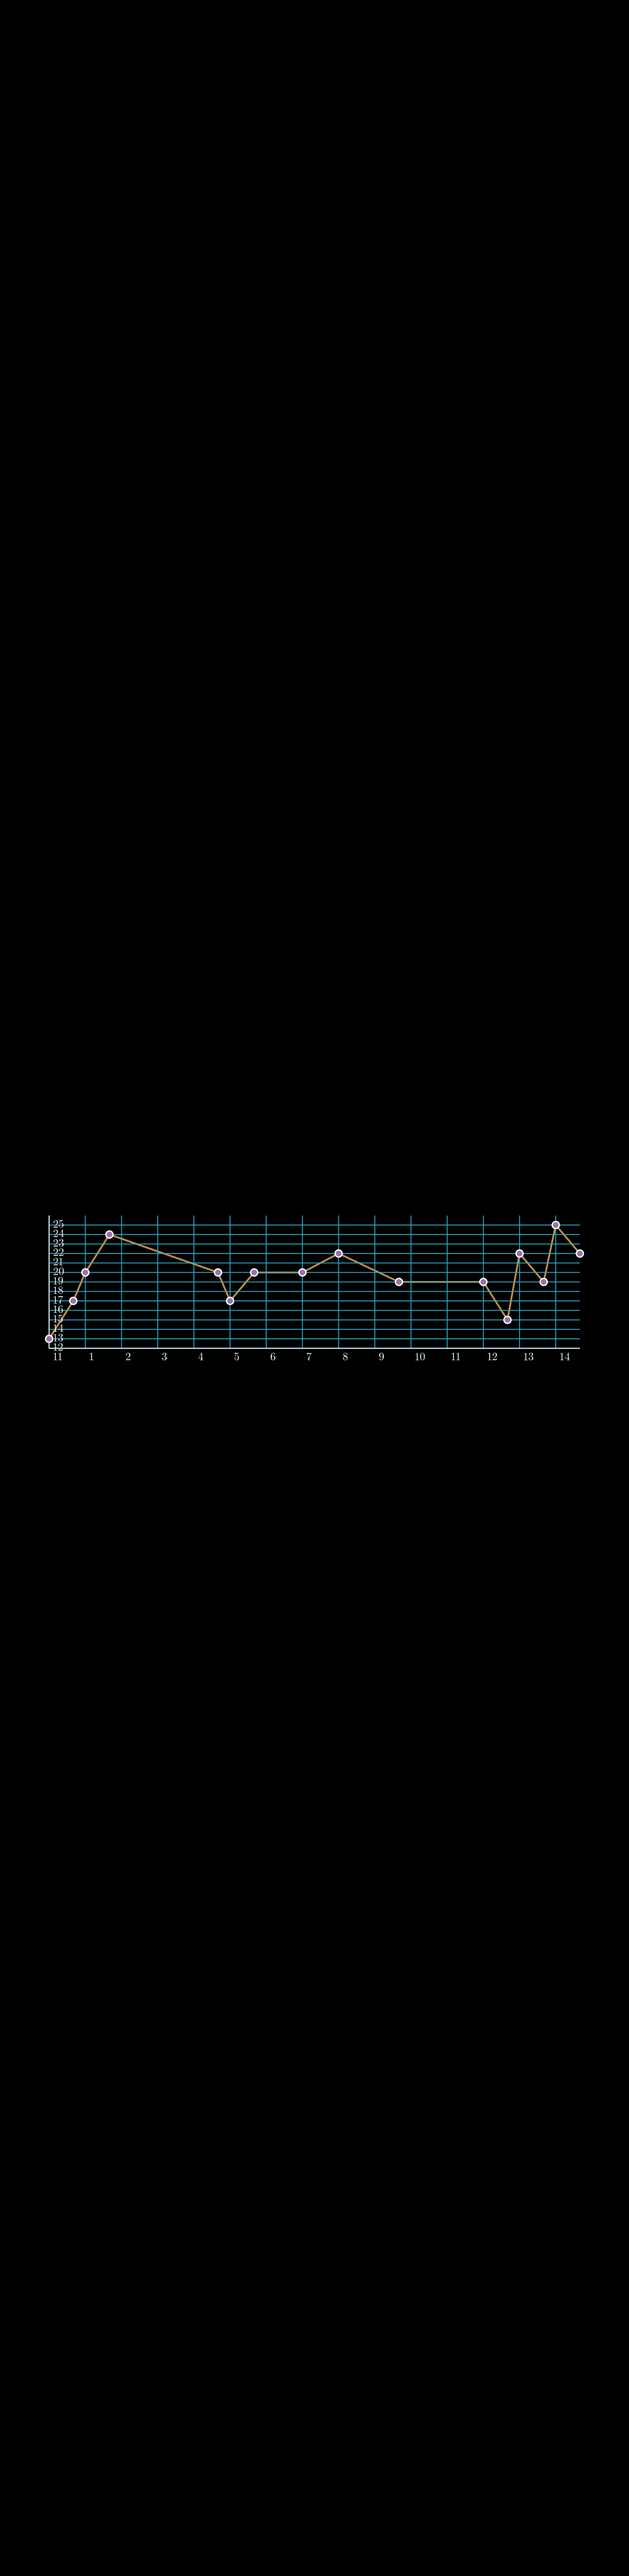
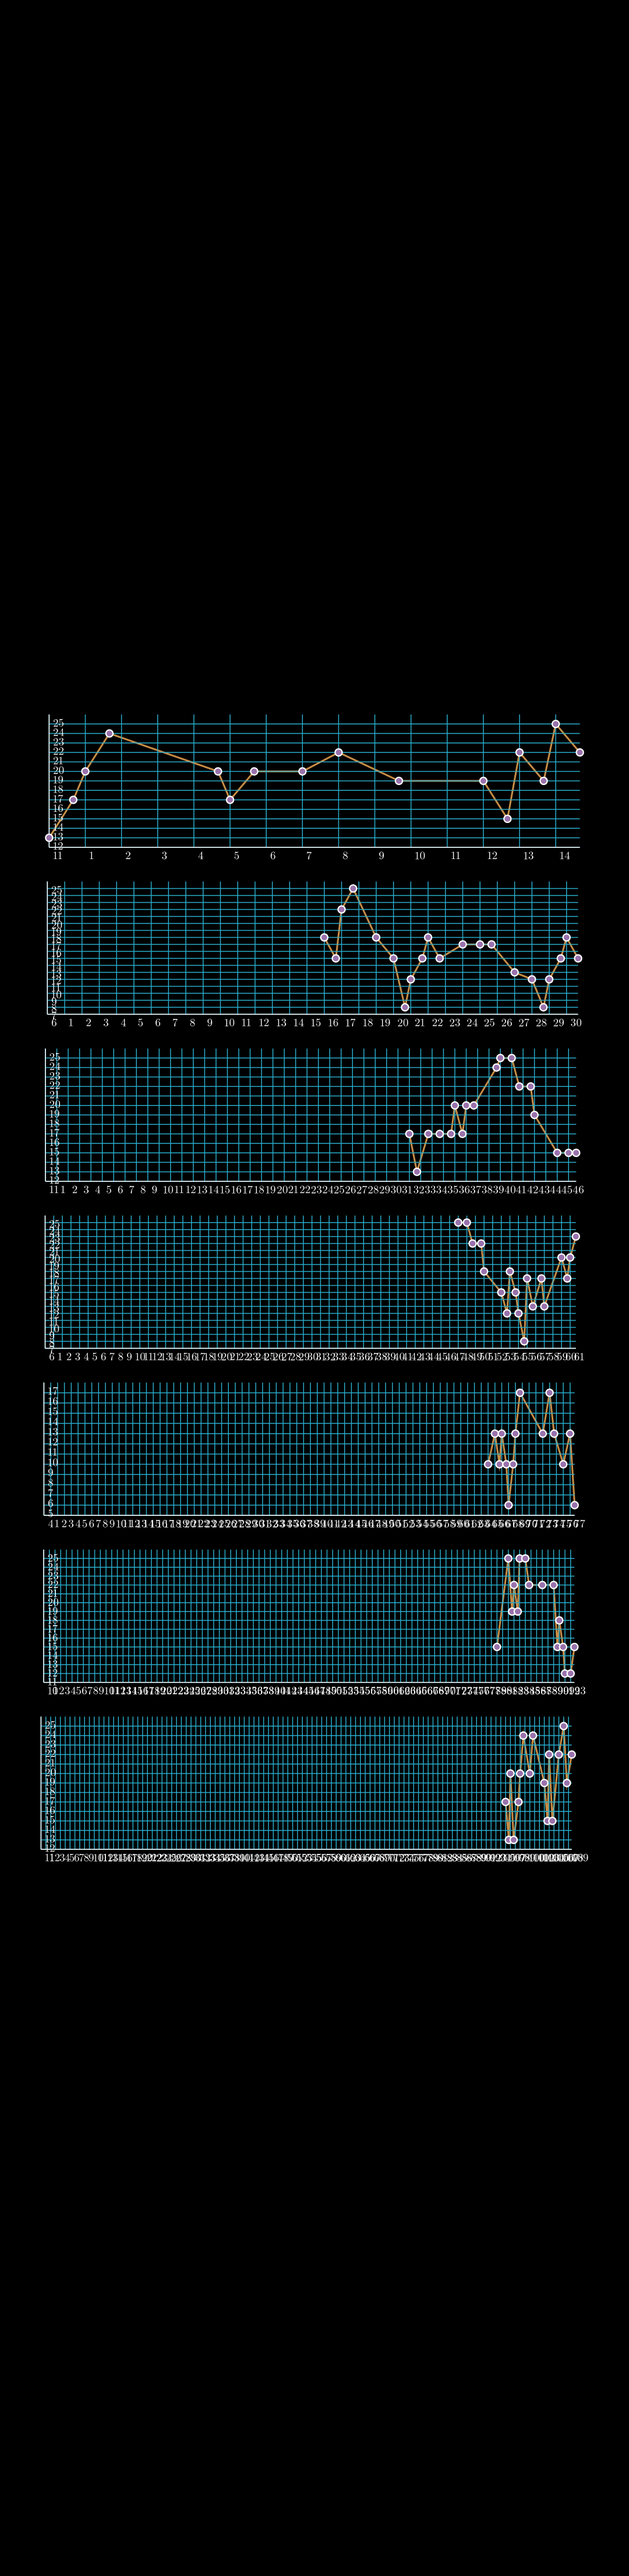
add in basic dots

Changed region(s): [[0.0611, 0.281, 0.9167, 0.7181]]

diff --git a/line_graph.py b/line_graph.py
@@ -42,34 +42,34 @@ class LineGraphExample(Scene):
             [("R 7' 4' 7' 7'", [tt, t, tt, t + b, b])],
             [("9' 6' R", [b + tt, t + b, b])],
             [("6' 2' 9' 6' 0'' 9' R", [tt, t, tt, t, tt, t, b])],
-            #[("5' 2' 9' 0'' 5'", [tt, t, tt, t + b, b])],
-            #[("2' 7 11 2' 5' 2' R", [tt, t, tt, t, tt, t, b])],
-            #[("4' 4' 4' 0'", [b, tt, t + b, b])],
-            #[("11 7 11 2' 5' 2' R", [tt, t, tt, t, tt, t, b])],
-            #[("4' 0' R 4' R 4' R 4'", [tt, t, tt, t, tt, t, tt, t])],
-            #[("7' 4' 7' 7' R 11'", [tt, t, tt, t, 1 + tt, t])],
-            #[("0'' 0'' 9' R 9' 6'", [b, tt, t, tt, t, b])],
-            #[("R 2' 2' 2' R", [b, b, tt, t, b])],
-            #[("0'' 0'' 9' R 9' 5'", [b, tt, t, tt, t, b])],
-            #[("R 2' 11 5' 2' 11 7", [b, tt, t, tt, t, tt, t])],
-            #[("4' 0' R 4' 0' R", [tt, t, tt, t, b, b])],
-            #[("7' 4' 7' 10' R", [tt, t, tt, t + b, b])],
-            #[("R 9 0' 9 0' 9", [b, b, tt, t, tt, t])],
-            #[("5 9 0' 4' R", [tt, t, tt, t + b, b])],
-            #[("R 0' 4' 0' R", [b, b, tt, t, b])],
-            #[("9 0' 5 R", [b, tt, t + b, b])],
-            #[("2' R 0'' 6' 9' 6'", [b, b, tt, t, tt, t])],
-            #[("0'' 0'' 9' R", [b, tt, t + b, b])],
-            #[("9' R 9' 2' 5' 2'", [b, b, tt, t, tt, t])],
-            #[("11 11 2' R", [b, tt, t + b, b])],
-            #[("4' 0' 7' 0' R 4' 7' 11'", [tt, t, tt, t, tt, t, tt, t + b])],
-            #[("7' 11' R", [tt, t + b, b])],
-            #[("6' 2' 9' 2' R 9'", [tt, t, tt, t, b, b])],
-            #[("0'' 6' R 9' R", [tt, t, tt, t + b, b])],
-            #[("9' 2' R 5' 2'", [tt, t, tt, t + b, b])],
-            #[("5' 11 R 2' 5'", [tt, t, tt, t + b, b])],
-            #[("4' 0' 7' 4' 7' 11'", [tt, t, tt, t, tt, t + b])],
-            #[("R", [4 * b])],
+            [("5' 2' 9' 0'' 5'", [tt, t, tt, t + b, b])],
+            [("2' 7 11 2' 5' 2' R", [tt, t, tt, t, tt, t, b])],
+            [("4' 4' 4' 0'", [b, tt, t + b, b])],
+            [("11 7 11 2' 5' 2' R", [tt, t, tt, t, tt, t, b])],
+            [("4' 0' R 4' R 4' R 4'", [tt, t, tt, t, tt, t, tt, t])],
+            [("7' 4' 7' 7' R 11'", [tt, t, tt, t, 1 + tt, t])],
+            [("0'' 0'' 9' R 9' 6'", [b, tt, t, tt, t, b])],
+            [("R 2' 2' 2' R", [b, b, tt, t, b])],
+            [("0'' 0'' 9' R 9' 5'", [b, tt, t, tt, t, b])],
+            [("R 2' 11 5' 2' 11 7", [b, tt, t, tt, t, tt, t])],
+            [("4' 0' R 4' 0' R", [tt, t, tt, t, b, b])],
+            [("7' 4' 7' 10' R", [tt, t, tt, t + b, b])],
+            [("R 9 0' 9 0' 9", [b, b, tt, t, tt, t])],
+            [("5 9 0' 4' R", [tt, t, tt, t + b, b])],
+            [("R 0' 4' 0' R", [b, b, tt, t, b])],
+            [("9 0' 5 R", [b, tt, t + b, b])],
+            [("2' R 0'' 6' 9' 6'", [b, b, tt, t, tt, t])],
+            [("0'' 0'' 9' R", [b, tt, t + b, b])],
+            [("9' R 9' 2' 5' 2'", [b, b, tt, t, tt, t])],
+            [("11 11 2' R", [b, tt, t + b, b])],
+            [("4' 0' 7' 0' R 4' 7' 11'", [tt, t, tt, t, tt, t, tt, t + b])],
+            [("7' 11' R", [tt, t + b, b])],
+            [("6' 2' 9' 2' R 9'", [tt, t, tt, t, b, b])],
+            [("0'' 6' R 9' R", [tt, t, tt, t + b, b])],
+            [("9' 2' R 5' 2'", [tt, t, tt, t + b, b])],
+            [("5' 11 R 2' 5'", [tt, t, tt, t + b, b])],
+            [("4' 0' 7' 4' 7' 11'", [tt, t, tt, t, tt, t + b])],
+            [("R", [4 * b])],
         ]
 
         all_graphs = VGroup()
